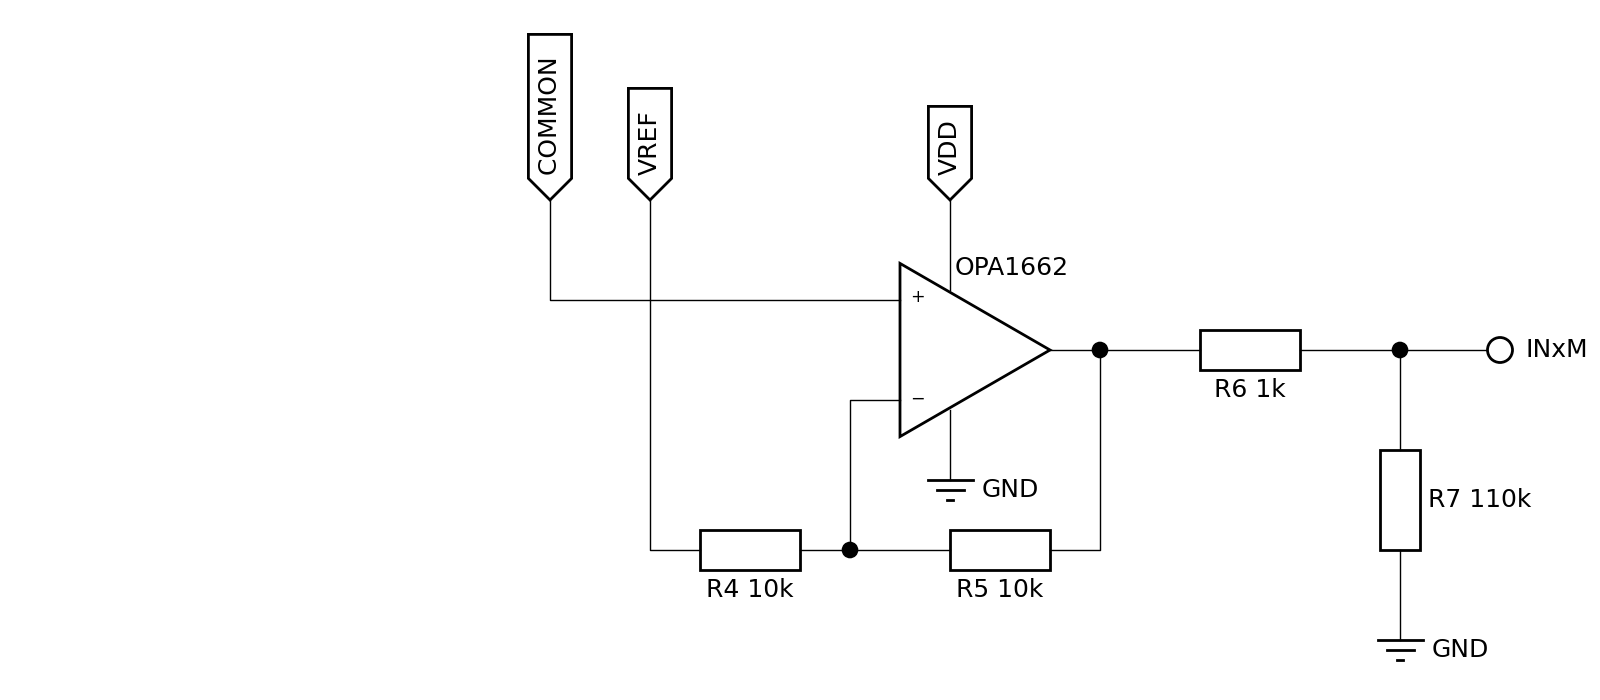
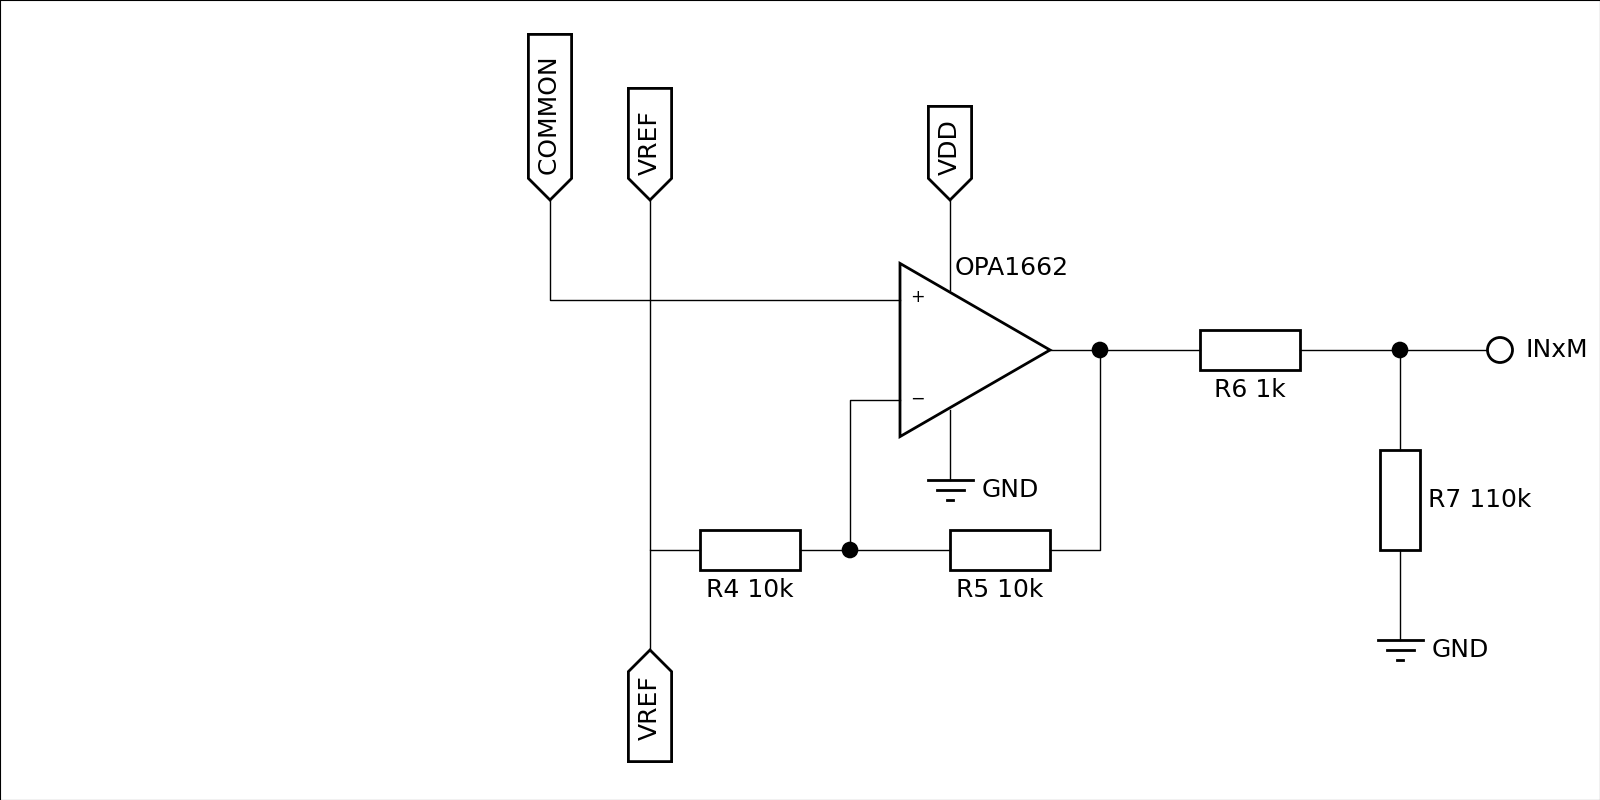
[R5.0] updated refamp

diff --git a/R5.0/refampinv.py b/R5.0/refampinv.py
@@ -4,14 +4,14 @@ from matplotlib.patches import Rectangle
 
 plt.rcParams['font.size'] = 18
 
-fig, ax = plt.subplots(figsize=(16, 7))
+fig, ax = plt.subplots(figsize=(16, 8))
 fig.subplots_adjust(nomargins=True)
-ax.show_spines('')
-#ax.set_xticks_off()
-#ax.set_yticks_off()
+#ax.show_spines('')
+ax.set_xticks_off()
+ax.set_yticks_off()
 
 ax.set_xlim(-1, 15)
-ax.set_ylim(1.5, 8.5)
+ax.set_ylim(0.5, 8.5)
 ax.set_aspect('equal')
 
 pn, pp, po, pg, pw = ax.opamp_l((8.5, 5), 'OPA1662')
@@ -24,6 +24,8 @@ ng1 = ax.node(pn.left(0.5).down(1.5))
 r4l, r4r = ax.resistance_h(ng1.left(1), 'R4 10k', align='bottom')
 nr = ax.bus(r4l.left(0.5).up(3.5), 'VREF', align='top')
 ax.connect((pn, ng1, r4r, None, r4l, r4l.left(0.5), nr))
+nr = ax.bus(r4l.left(0.5).down(1), 'VREF', align='bottom')
+ax.connect((r4l.left(0.5), nr))
 
 nc = ax.bus(pp.left(3.5).up(1), 'COMMON ', align='top')
 ax.connect((nc,  pp))
